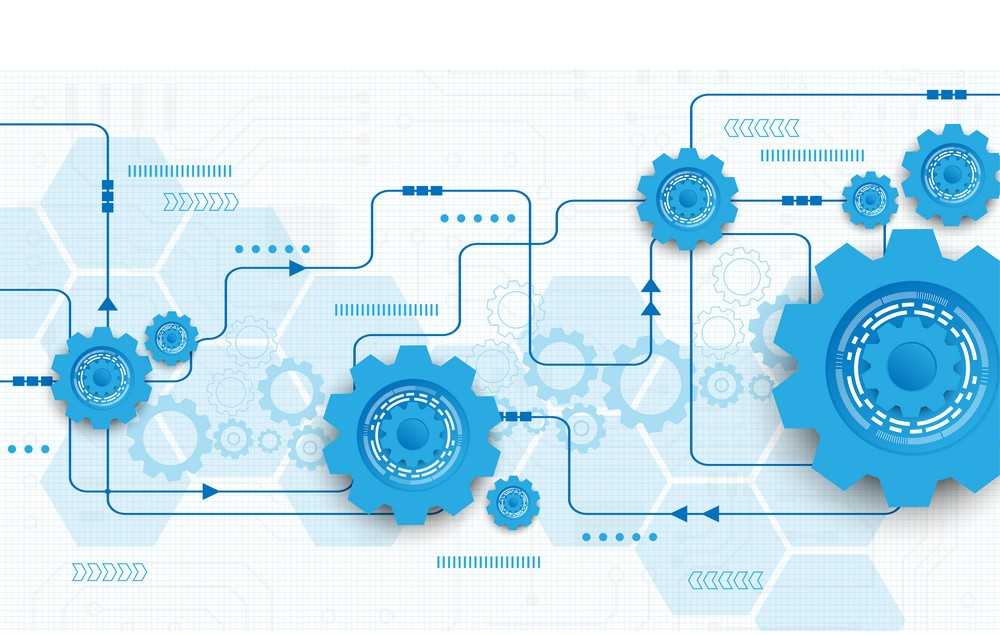
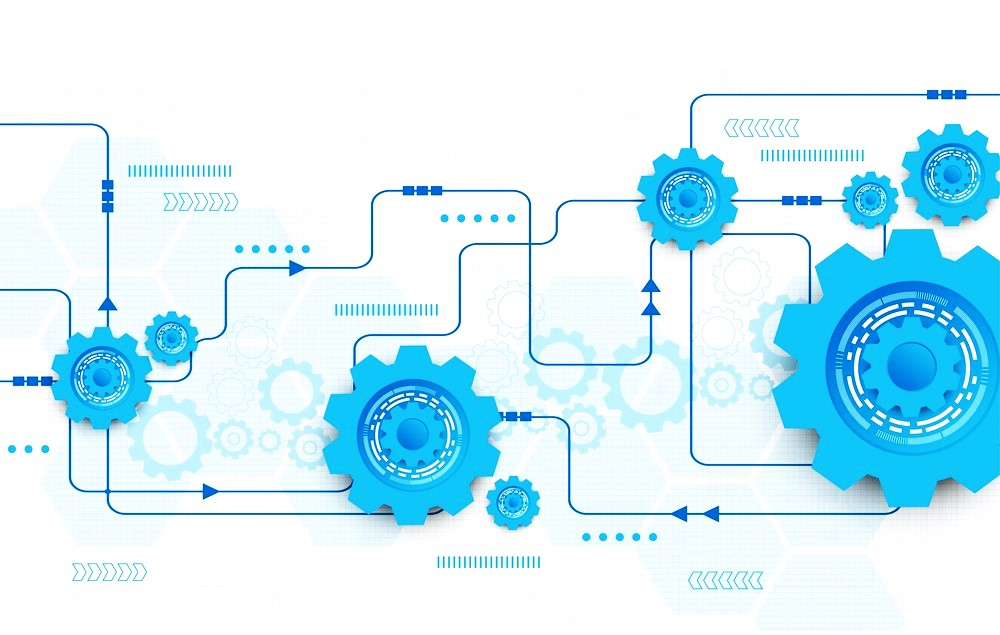
background client

diff --git a/style.css b/style.css
@@ -440,7 +440,7 @@ header .navbar {
         transform: scale(1.3);
 }
 .gallery-section {
-  background-image: url('images/background2.jpg');
+  background-image: url('images/background6.jpg');
   background-attachment: fixed;
   background-size: cover;
   background-position: center;
